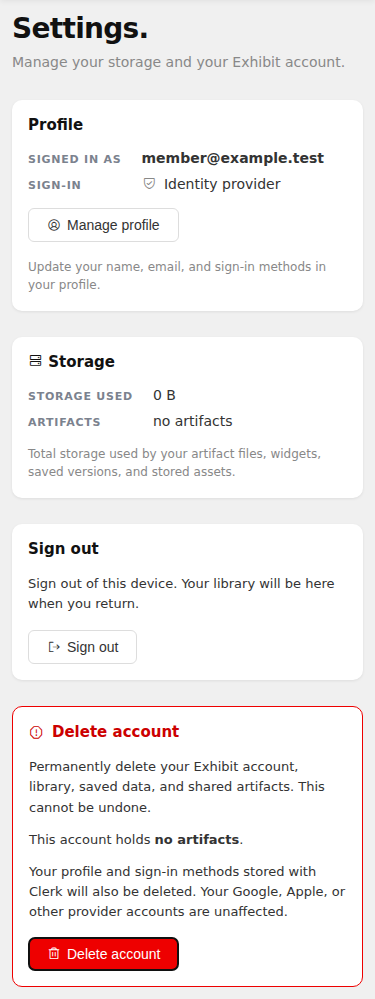
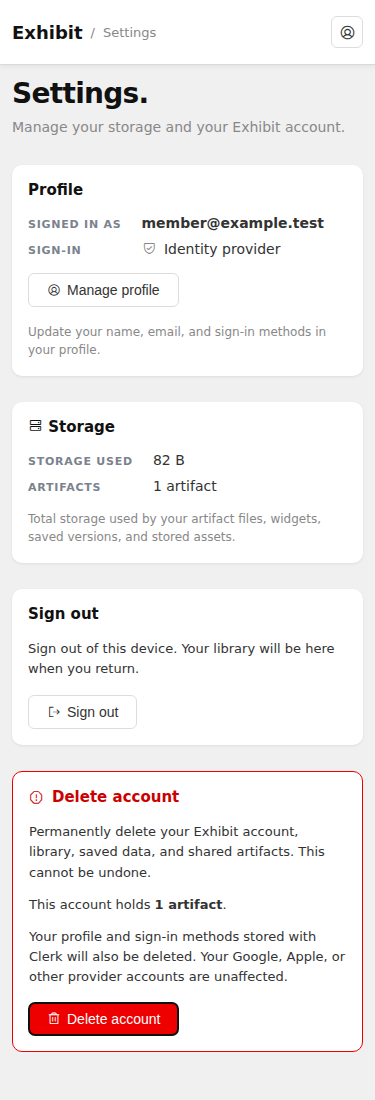
Apply approved account settings flow to production screens

diff --git a/web/gallery/settings.css b/web/gallery/settings.css
@@ -16,6 +16,12 @@ header{position:sticky;top:0;z-index:20;background:var(--color-panel);border-bot
 header h1{font-size:18px;font-weight:600}
 header a{color:var(--brand-blue);text-decoration:none;font-size:14px}
 main{padding:var(--space-8);max-width:900px;margin:0 auto}
+/* Match the approved account flow while retaining the ordinary admin header. */
+.account-settings-header{gap:var(--space-3);min-height:65px}
+.account-settings-header .account-settings-brand{font-size:18px;font-weight:650;color:var(--color-ink)}
+.account-settings-separator,.account-settings-header h1{font-size:13px;font-weight:400;color:var(--color-muted)}
+.account-settings-header .account-control{margin-left:auto}
+
 
 /* --- lede -------------------------------------------------------------- */
 .lede h2{font-size:28px;font-weight:650;letter-spacing:-.025em}

diff --git a/web/gallery/components.css b/web/gallery/components.css
@@ -263,3 +263,7 @@ button.banner-action{background:none;border:0;padding:0;font:inherit;cursor:poin
 .color-custom-row{display:flex;gap:8px;align-items:center;margin-top:8px}
 .color-custom-row input[type=color]{width:36px;height:30px;padding:0;border:1px solid var(--color-border);border-radius:6px;cursor:pointer}
 .color-custom-row input[type=text]{flex:1}
+
+/* One reusable hosted account control. Clerk supplies its avatar and menu. */
+.account-control{display:flex;align-items:center;gap:var(--space-3);min-width:0}
+.account-control [data-clerk-target="status"]:empty{display:none}

diff --git a/internal/api/clerk_account_browser_test.go b/internal/api/clerk_account_browser_test.go
@@ -2,8 +2,10 @@ package api
 
 import (
 	"context"
+	"encoding/json"
 	"errors"
 	"fmt"
+	"io/fs"
 	"net/http"
 	"net/http/httptest"
 	"os"
@@ -47,6 +49,20 @@ func testClerkAccountBrowser(t *testing.T, pending bool) {
 	require.NoError(t, err)
 	_, err = st.UpsertHostedUser(ctx, "clerk:member", "member@example.test", hosted.createdAt)
 	require.NoError(t, err)
+
+	// Seed through the actual write route so storage and deletion exercise stored
+	// bytes, reference accounting, and the local blob backend together.
+	const artifactBody = "<!doctype html><title>Weekly tracker</title><p>Production settings integration</p>"
+	payload, err := json.Marshal(map[string]any{"title": "Weekly tracker", "body": artifactBody, "network_allowlist": []string{}})
+	require.NoError(t, err)
+	request := httptest.NewRequest("POST", "/api/artifacts", strings.NewReader(string(payload)))
+	request.Header.Set("Test-Clerk-Subject", "clerk:member")
+	request.Header.Set("Content-Type", "application/json")
+	created := httptest.NewRecorder()
+	ro.ServeHTTP(created, request)
+	require.Equal(t, http.StatusCreated, created.Code, created.Body.String())
+	var artifact createArtifactResponse
+	require.NoError(t, json.Unmarshal(created.Body.Bytes(), &artifact))
 	srv := httptest.NewServer(http.HandlerFunc(func(w http.ResponseWriter, r *http.Request) {
 		if strings.HasSuffix(r.URL.Path, "/gallery/clerk-client.js") {
 			w.Header().Set("Content-Type", "text/javascript")
@@ -83,7 +99,10 @@ func testClerkAccountBrowser(t *testing.T, pending bool) {
 	require.NoError(t, err)
 	run(chromedp.WaitVisible(chromedp.CSS(`#delete-account`)))
 	check(`location.pathname === '/settings' && document.title === 'Settings — Exhibit'`)
-	check(`document.querySelector('#storage').textContent.includes('0 B')`)
+	check(fmt.Sprintf(`document.querySelector('#storage').textContent.includes(%q) && document.querySelector('#storage').textContent.includes('1 artifact')`, fmt.Sprintf("%d B", len(artifactBody))))
+	run(chromedp.WaitVisible(chromedp.CSS(`#test-account-button`)))
+	check(`document.querySelectorAll('[data-clerk-mode-value="user"]').length === 1 && document.querySelector('header #test-account-button') != null`)
+
 	check(`getComputedStyle(document.querySelector('[data-account-deletion-target="finish"]')).display === 'none'`)
 	run(chromedp.Evaluate[chromedp.Void](fmt.Sprintf(`import(%q).then(({application}) => { window.accountApplication = application; }).catch(error => { window.accountImportError = error.stack; })`, assetURL("gallery/controllers.js"))),
 		chromedp.Poll[chromedp.Void](`window.accountApplication?.getControllerForElementAndIdentifier(document.querySelector('[data-clerk-mode-value="manage"]'), 'clerk') != null`),
@@ -97,11 +116,11 @@ func testClerkAccountBrowser(t *testing.T, pending bool) {
 	check(`!document.querySelector('#delete-confirm-go').disabled`)
 	run(click(`#delete-cancel`))
 	check(`document.querySelector('#delete-phrase').value === '' && document.querySelector('#delete-confirm').hidden`)
-	// Capture only the real server-rendered custom page, not the provider stub chrome.
+	// Capture the production layout; only the provider boundary is stubbed.
 	capture := func(name string) {
 		if dir := os.Getenv("ACCOUNT_SCREENSHOT_DIR"); dir != "" {
 			require.NoError(t, os.MkdirAll(dir, 0755))
-			shot, err := chromedp.Run(ctx, chromedp.Screenshot(chromedp.CSS(`.settings`)))
+			shot, err := chromedp.Run(ctx, chromedp.Screenshot(chromedp.CSS(`body`)))
 			require.NoError(t, err)
 			require.NoError(t, os.WriteFile(filepath.Join(dir, name), shot, 0644))
 		}
@@ -132,6 +151,11 @@ func testClerkAccountBrowser(t *testing.T, pending bool) {
 	}
 	check(`location.pathname === '/auth/logout'`)
 	require.Equal(t, []string{"clerk:member"}, hosted.deleted)
+	body, err := ro.cfg.Blob.Get(ctx, artifact.Artifact.SourceBlobID)
+	if body != nil {
+		_ = body.Close()
+	}
+	require.ErrorIs(t, err, fs.ErrNotExist, "account erasure removes the artifact bytes, not just its rows")
 	queued, err := st.PendingHostedIdentityDeletions(ctx)
 	require.NoError(t, err)
 	if pending {
@@ -148,7 +172,7 @@ const clerk = {
  isSignedIn:true, user:{reload: async () => {}},
  openUserProfile(options) { window.profileOpens++; window.profileOptions = options; },
  mountUserButton(element, options) {
-  const button = document.createElement('button'); button.id = 'test-account-button'; button.textContent = 'Your account';
+  const button = document.createElement('button'); button.id = 'test-account-button'; button.setAttribute('aria-label', 'Your account'); button.className = 'btn btn-sec icon-btn'; const glyph = document.createElement('i'); glyph.className = 'ph ph-user-circle'; glyph.setAttribute('aria-hidden', 'true'); button.append(glyph);
   button.onclick = () => {
    if (document.querySelector('#test-account-menu')) return;
    const menu = document.createElement('nav'); menu.id = 'test-account-menu';

diff --git a/internal/api/clerk_test.go b/internal/api/clerk_test.go
@@ -190,6 +190,10 @@ func TestClerkUnifiedAccountPages(t *testing.T) {
 	require.Equal(t, 200, page.Code)
 	require.Equal(t, "no-store", page.Header().Get("Cache-Control"))
 	require.Contains(t, page.Body.String(), "Settings — Exhibit")
+	require.Equal(t, 1, strings.Count(page.Body.String(), `data-clerk-mode-value="user"`), "Settings keeps the same single account menu as the gallery")
+	require.Contains(t, page.Body.String(), `class="account-settings-header"`)
+	require.NotContains(t, page.Body.String(), "Interactive demo")
+	require.NotContains(t, page.Body.String(), "128.4 MiB")
 	require.Contains(t, page.Body.String(), "Manage profile")
 	require.Contains(t, page.Body.String(), "12.1 KiB")
 	require.Contains(t, page.Body.String(), "1 artifact")

diff --git a/docs/ui-components.md b/docs/ui-components.md
@@ -142,18 +142,24 @@ Node DOM focused on feature logic.
 
 ## Account menu and Settings
 
+The gallery and Settings header render the same `accountControl` template partial.
 Hosted accounts have one Clerk user button. `clerk-menu.js` adds a Settings link
 using Clerk's supported custom menu API. Clerk's Profile and Security screens
 retain their standard content. Settings lives at `/settings` (`/profile` is a
 compatibility alias) and offers storage usage, sign-out, and account deletion.
-Its Manage profile button opens the unmodified Clerk profile modal.
+Its Manage profile button opens the unmodified Clerk profile modal. The Settings
+header keeps that same account menu beside the Exhibit / Settings breadcrumb,
+matching the approved interactive demo. Storage and artifact counts come from
+the session owner, and the demo's sample data and simulated actions are confined
+to `designs/settings-demo.html`.
 
 The `account-deletion` controller is shared by hosted and self-hosted settings.
 It reveals the server-rendered confirmation, resets the phrase on cancellation,
 prevents duplicate requests, and displays the server's pending-deletion message
 when provider cleanup needs retrying. The server enforces the confirmation and
 last-administrator guard independently. `TestClerkAccountBrowser` covers the menu,
-profile launch, Settings navigation, confirmation, mobile layout, and complete or
+profile launch, Settings navigation, real artifact byte accounting and erasure,
+confirmation, mobile layout, and complete or
 pending deletion, with the provider UI boundary stubbed.
 
 The screenshots show the real Settings page rendered with that provider stub:

diff --git a/.tickets/Exh-r6a0.md b/.tickets/Exh-r6a0.md
@@ -22,3 +22,11 @@ Clerk users have one account control; storage and deletion are visible in Settin
 **2026-10-29T15:47:46Z**
 
 Implemented the revised split: one Clerk account menu links to Settings at /settings; /profile remains an alias. Clerk Profile and Security are unchanged. Storage and deletion live in Settings. Hosted deletion removes the Clerk user through the Go SDK after guarded local erasure, with durable retries and a permanent identity fence. Verified focused Go and browser checks, full store tests, go vet, asset build, and all 407 gallery JS tests. Browser checks stub the provider UI boundary; no real Clerk account was deleted. Added desktop/mobile screenshots and a self-contained Paper preview.
+
+**2026-10-29T16:32:00Z**
+
+Applied the approved interactive demo to the real Settings page: shared accountControl partial in gallery and Settings, Exhibit / Settings breadcrumb, native Clerk controls, and session-owned storage. Extended the browser integration to create a real artifact through the write API, verify measured usage, and confirm its blob is erased by account deletion. Updated desktop and phone screenshots.
+
+**2026-10-29T16:34:50Z**
+
+Final verification passed: go test ./..., all 407 gallery JavaScript tests, focused real-byte account deletion browser checks, go vet for API/auth/store, and asset syntax checks. The approved flow is implemented with native Clerk controls and real account storage; no demo data is used by production templates.
